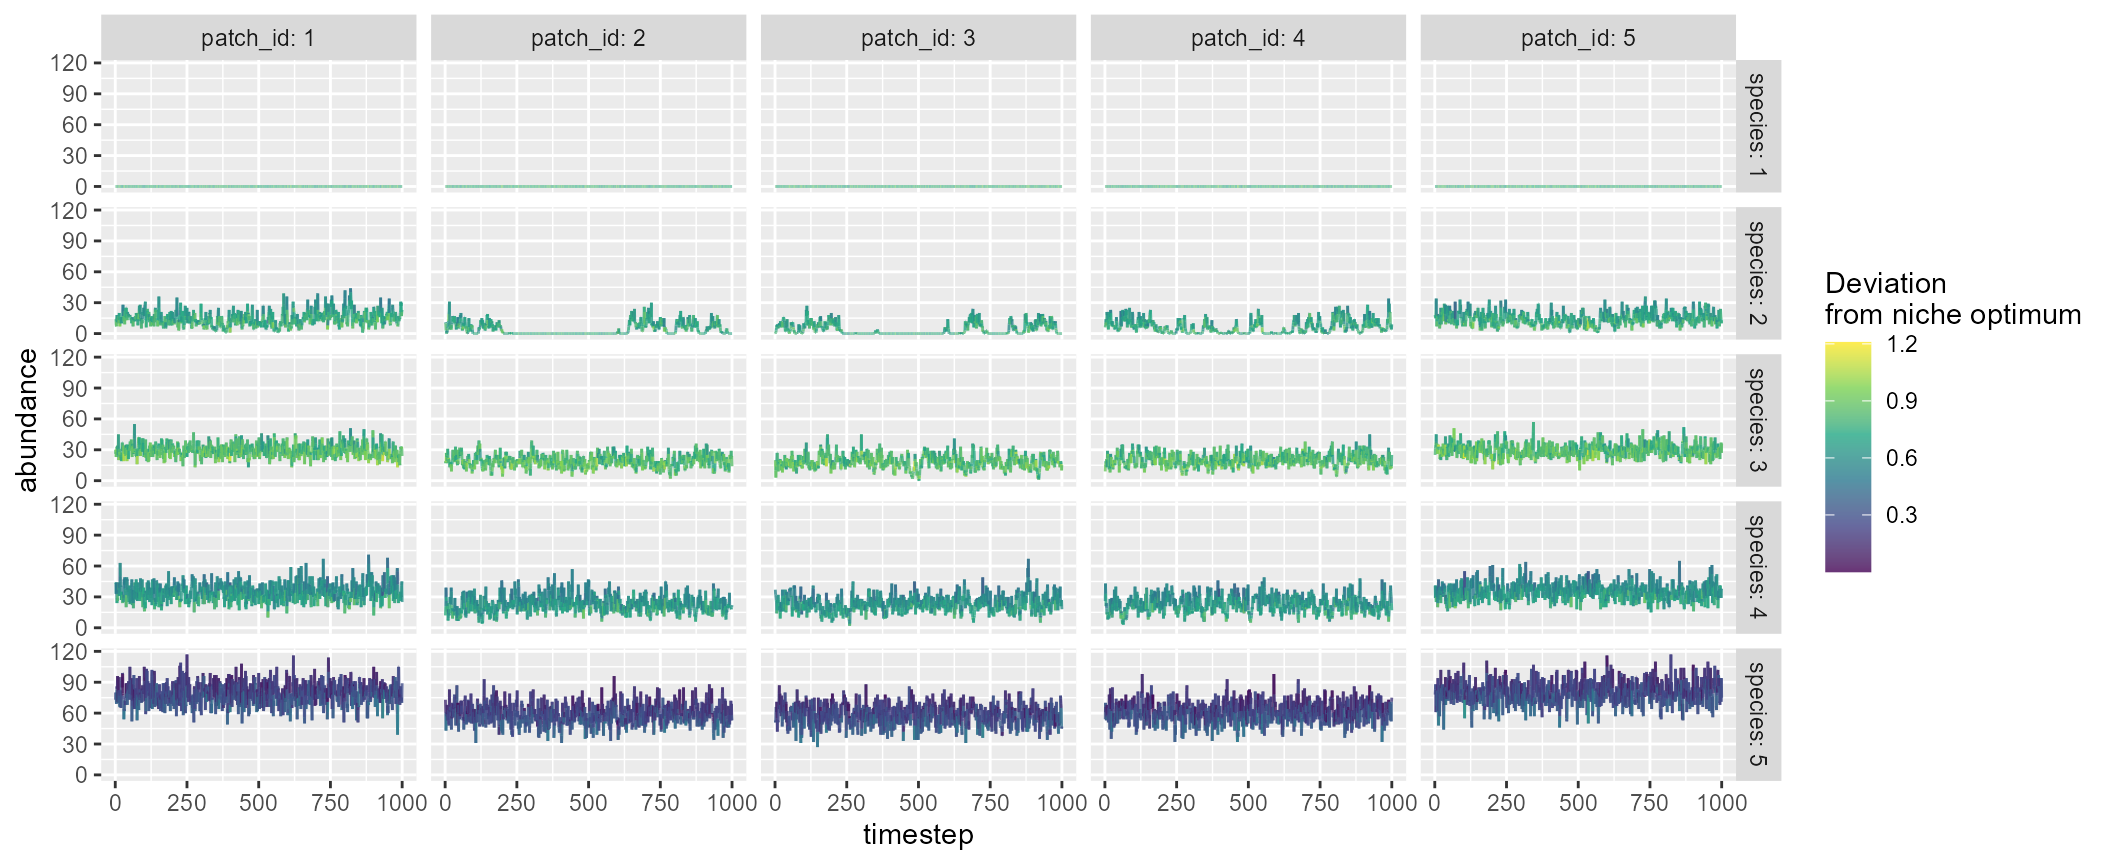
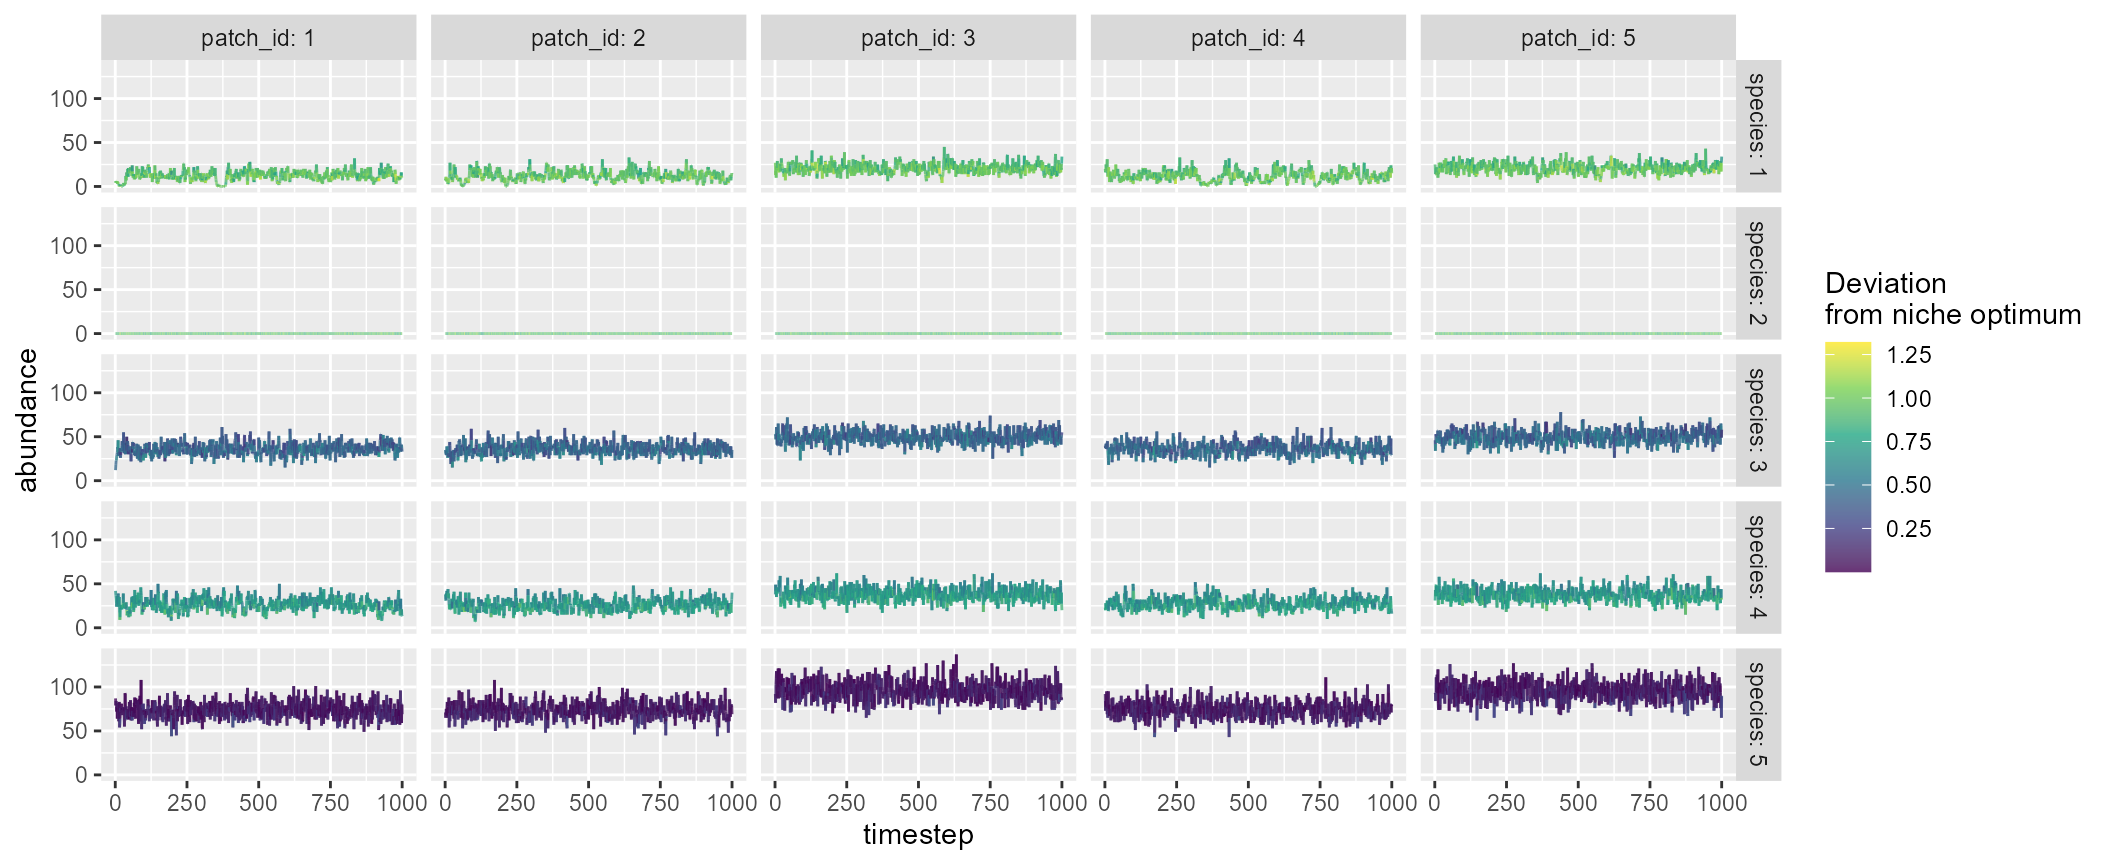
edit: pkgdown

diff --git a/docs/articles/mcsim.html b/docs/articles/mcsim.html
@@ -204,18 +204,18 @@ species that are randomly chosen:</p>
 <code class="sourceCode R"><span><span class="va">mc</span></span>
 <span><span class="co">#&gt; $df_dynamics</span></span>
 <span><span class="co">#&gt; <span style="color: #949494;"># A tibble: 25,000 × 9</span></span></span>
-<span><span class="co">#&gt;    timestep patch_id mean_env    env carrying_c…¹ species niche…²   r_xt abund…³</span></span>
-<span><span class="co">#&gt;       <span style="color: #949494; font-style: italic;">&lt;dbl&gt;</span>    <span style="color: #949494; font-style: italic;">&lt;dbl&gt;</span>    <span style="color: #949494; font-style: italic;">&lt;dbl&gt;</span>  <span style="color: #949494; font-style: italic;">&lt;dbl&gt;</span>        <span style="color: #949494; font-style: italic;">&lt;dbl&gt;</span>   <span style="color: #949494; font-style: italic;">&lt;dbl&gt;</span>   <span style="color: #949494; font-style: italic;">&lt;dbl&gt;</span>  <span style="color: #949494; font-style: italic;">&lt;dbl&gt;</span>   <span style="color: #949494; font-style: italic;">&lt;dbl&gt;</span></span></span>
-<span><span class="co">#&gt; <span style="color: #BCBCBC;"> 1</span>        1        1        0 0.034<span style="text-decoration: underline;">9</span>          100       1   0.762 0.015<span style="text-decoration: underline;">9</span>       0</span></span>
-<span><span class="co">#&gt; <span style="color: #BCBCBC;"> 2</span>        1        1        0 0.034<span style="text-decoration: underline;">9</span>          100       2   0.726 1.53        14</span></span>
-<span><span class="co">#&gt; <span style="color: #BCBCBC;"> 3</span>        1        1        0 0.034<span style="text-decoration: underline;">9</span>          100       3   0.824 1.81        26</span></span>
-<span><span class="co">#&gt; <span style="color: #BCBCBC;"> 4</span>        1        1        0 0.034<span style="text-decoration: underline;">9</span>          100       4  -<span style="color: #BB0000;">0.631</span> 1.76        44</span></span>
-<span><span class="co">#&gt; <span style="color: #BCBCBC;"> 5</span>        1        1        0 0.034<span style="text-decoration: underline;">9</span>          100       5   0.258 3.19        73</span></span>
-<span><span class="co">#&gt; <span style="color: #BCBCBC;"> 6</span>        1        2        0 0.116           100       1   0.762 0.050<span style="text-decoration: underline;">7</span>       0</span></span>
-<span><span class="co">#&gt; <span style="color: #BCBCBC;"> 7</span>        1        2        0 0.116           100       2   0.726 1.83        11</span></span>
-<span><span class="co">#&gt; <span style="color: #BCBCBC;"> 8</span>        1        2        0 0.116           100       3   0.824 1.94        19</span></span>
-<span><span class="co">#&gt; <span style="color: #BCBCBC;"> 9</span>        1        2        0 0.116           100       4  -<span style="color: #BB0000;">0.631</span> 1.49        12</span></span>
-<span><span class="co">#&gt; <span style="color: #BCBCBC;">10</span>        1        2        0 0.116           100       5   0.258 3.38        73</span></span>
+<span><span class="co">#&gt;    timestep patch_id mean_env     env carryin…¹ species niche…²     r_xt abund…³</span></span>
+<span><span class="co">#&gt;       <span style="color: #949494; font-style: italic;">&lt;dbl&gt;</span>    <span style="color: #949494; font-style: italic;">&lt;dbl&gt;</span>    <span style="color: #949494; font-style: italic;">&lt;dbl&gt;</span>   <span style="color: #949494; font-style: italic;">&lt;dbl&gt;</span>     <span style="color: #949494; font-style: italic;">&lt;dbl&gt;</span>   <span style="color: #949494; font-style: italic;">&lt;dbl&gt;</span>   <span style="color: #949494; font-style: italic;">&lt;dbl&gt;</span>    <span style="color: #949494; font-style: italic;">&lt;dbl&gt;</span>   <span style="color: #949494; font-style: italic;">&lt;dbl&gt;</span></span></span>
+<span><span class="co">#&gt; <span style="color: #BCBCBC;"> 1</span>        1        1        0 -<span style="color: #BB0000;">0.021</span><span style="color: #BB0000; text-decoration: underline;">2</span>       100       1  0.948  1.52<span style="color: #949494;">e</span>+ 0       4</span></span>
+<span><span class="co">#&gt; <span style="color: #BCBCBC;"> 2</span>        1        1        0 -<span style="color: #BB0000;">0.021</span><span style="color: #BB0000; text-decoration: underline;">2</span>       100       2 -<span style="color: #BB0000;">0.925</span>  3.32<span style="color: #949494;">e</span><span style="color: #BB0000;">-11</span>       0</span></span>
+<span><span class="co">#&gt; <span style="color: #BCBCBC;"> 3</span>        1        1        0 -<span style="color: #BB0000;">0.021</span><span style="color: #BB0000; text-decoration: underline;">2</span>       100       3  0.431  2.26<span style="color: #949494;">e</span>+ 0      12</span></span>
+<span><span class="co">#&gt; <span style="color: #BCBCBC;"> 4</span>        1        1        0 -<span style="color: #BB0000;">0.021</span><span style="color: #BB0000; text-decoration: underline;">2</span>       100       4 -<span style="color: #BB0000;">0.703</span>  2.02<span style="color: #949494;">e</span>+ 0      42</span></span>
+<span><span class="co">#&gt; <span style="color: #BCBCBC;"> 5</span>        1        1        0 -<span style="color: #BB0000;">0.021</span><span style="color: #BB0000; text-decoration: underline;">2</span>       100       5 -<span style="color: #BB0000;">0.037</span><span style="color: #BB0000; text-decoration: underline;">0</span> 3.59<span style="color: #949494;">e</span>+ 0      87</span></span>
+<span><span class="co">#&gt; <span style="color: #BCBCBC;"> 6</span>        1        2        0 -<span style="color: #BB0000;">0.061</span><span style="color: #BB0000; text-decoration: underline;">6</span>       100       1  0.948  1.45<span style="color: #949494;">e</span>+ 0       9</span></span>
+<span><span class="co">#&gt; <span style="color: #BCBCBC;"> 7</span>        1        2        0 -<span style="color: #BB0000;">0.061</span><span style="color: #BB0000; text-decoration: underline;">6</span>       100       2 -<span style="color: #BB0000;">0.925</span>  3.08<span style="color: #949494;">e</span><span style="color: #BB0000;">-10</span>       0</span></span>
+<span><span class="co">#&gt; <span style="color: #BCBCBC;"> 8</span>        1        2        0 -<span style="color: #BB0000;">0.061</span><span style="color: #BB0000; text-decoration: underline;">6</span>       100       3  0.431  2.21<span style="color: #949494;">e</span>+ 0      35</span></span>
+<span><span class="co">#&gt; <span style="color: #BCBCBC;"> 9</span>        1        2        0 -<span style="color: #BB0000;">0.061</span><span style="color: #BB0000; text-decoration: underline;">6</span>       100       4 -<span style="color: #BB0000;">0.703</span>  2.10<span style="color: #949494;">e</span>+ 0      38</span></span>
+<span><span class="co">#&gt; <span style="color: #BCBCBC;">10</span>        1        2        0 -<span style="color: #BB0000;">0.061</span><span style="color: #BB0000; text-decoration: underline;">6</span>       100       5 -<span style="color: #BB0000;">0.037</span><span style="color: #BB0000; text-decoration: underline;">0</span> 3.58<span style="color: #949494;">e</span>+ 0      71</span></span>
 <span><span class="co">#&gt; <span style="color: #949494;"># … with 24,990 more rows, and abbreviated variable names ¹carrying_capacity,</span></span></span>
 <span><span class="co">#&gt; <span style="color: #949494;">#   ²niche_optim, ³abundance</span></span></span>
 <span><span class="co">#&gt; </span></span>
@@ -223,45 +223,45 @@ species that are randomly chosen:</p>
 <span><span class="co">#&gt; <span style="color: #949494;"># A tibble: 5 × 6</span></span></span>
 <span><span class="co">#&gt;   species mean_abundance    r0 niche_optim sd_niche_width p_dispersal</span></span>
 <span><span class="co">#&gt;     <span style="color: #949494; font-style: italic;">&lt;dbl&gt;</span>          <span style="color: #949494; font-style: italic;">&lt;dbl&gt;</span> <span style="color: #949494; font-style: italic;">&lt;dbl&gt;</span>       <span style="color: #949494; font-style: italic;">&lt;dbl&gt;</span>          <span style="color: #949494; font-style: italic;">&lt;dbl&gt;</span>       <span style="color: #949494; font-style: italic;">&lt;dbl&gt;</span></span></span>
-<span><span class="co">#&gt; <span style="color: #BCBCBC;">1</span>       1           0        4       0.762          0.219         0.1</span></span>
-<span><span class="co">#&gt; <span style="color: #BCBCBC;">2</span>       2           8.60     4       0.726          0.542         0.1</span></span>
-<span><span class="co">#&gt; <span style="color: #BCBCBC;">3</span>       3          23.1      4       0.824          0.938         0.1</span></span>
-<span><span class="co">#&gt; <span style="color: #BCBCBC;">4</span>       4          27.6      4      -<span style="color: #BB0000;">0.631</span>          0.584         0.1</span></span>
-<span><span class="co">#&gt; <span style="color: #BCBCBC;">5</span>       5          67.2      4       0.258          0.508         0.1</span></span>
+<span><span class="co">#&gt; <span style="color: #BCBCBC;">1</span>       1           15.5     4      0.948           0.962         0.1</span></span>
+<span><span class="co">#&gt; <span style="color: #BCBCBC;">2</span>       2            0       4     -<span style="color: #BB0000;">0.925</span>           0.127         0.1</span></span>
+<span><span class="co">#&gt; <span style="color: #BCBCBC;">3</span>       3           41.4     4      0.431           0.962         0.1</span></span>
+<span><span class="co">#&gt; <span style="color: #BCBCBC;">4</span>       4           31.1     4     -<span style="color: #BB0000;">0.703</span>           0.822         0.1</span></span>
+<span><span class="co">#&gt; <span style="color: #BCBCBC;">5</span>       5           82.5     4     -<span style="color: #BB0000;">0.037</span><span style="color: #BB0000; text-decoration: underline;">0</span>          0.466         0.1</span></span>
 <span><span class="co">#&gt; </span></span>
 <span><span class="co">#&gt; $df_patch</span></span>
 <span><span class="co">#&gt; <span style="color: #949494;"># A tibble: 5 × 5</span></span></span>
 <span><span class="co">#&gt;   patch_id alpha_div mean_env carrying_capacity disturbance</span></span>
 <span><span class="co">#&gt;      <span style="color: #949494; font-style: italic;">&lt;dbl&gt;</span>     <span style="color: #949494; font-style: italic;">&lt;dbl&gt;</span>    <span style="color: #949494; font-style: italic;">&lt;dbl&gt;</span>             <span style="color: #949494; font-style: italic;">&lt;dbl&gt;</span>       <span style="color: #949494; font-style: italic;">&lt;dbl&gt;</span></span></span>
-<span><span class="co">#&gt; <span style="color: #BCBCBC;">1</span>        1      4           0               100           0</span></span>
-<span><span class="co">#&gt; <span style="color: #BCBCBC;">2</span>        2      3.47        0               100           0</span></span>
-<span><span class="co">#&gt; <span style="color: #BCBCBC;">3</span>        3      3.48        0               100           0</span></span>
-<span><span class="co">#&gt; <span style="color: #BCBCBC;">4</span>        4      3.74        0               100           0</span></span>
+<span><span class="co">#&gt; <span style="color: #BCBCBC;">1</span>        1      3.97        0               100           0</span></span>
+<span><span class="co">#&gt; <span style="color: #BCBCBC;">2</span>        2      3.99        0               100           0</span></span>
+<span><span class="co">#&gt; <span style="color: #BCBCBC;">3</span>        3      4           0               100           0</span></span>
+<span><span class="co">#&gt; <span style="color: #BCBCBC;">4</span>        4      3.99        0               100           0</span></span>
 <span><span class="co">#&gt; <span style="color: #BCBCBC;">5</span>        5      4           0               100           0</span></span>
 <span><span class="co">#&gt; </span></span>
 <span><span class="co">#&gt; $df_diversity</span></span>
 <span><span class="co">#&gt; <span style="color: #949494;"># A tibble: 1 × 3</span></span></span>
 <span><span class="co">#&gt;   alpha_div beta_div gamma_div</span></span>
 <span><span class="co">#&gt;       <span style="color: #949494; font-style: italic;">&lt;dbl&gt;</span>    <span style="color: #949494; font-style: italic;">&lt;dbl&gt;</span>     <span style="color: #949494; font-style: italic;">&lt;dbl&gt;</span></span></span>
-<span><span class="co">#&gt; <span style="color: #BCBCBC;">1</span>      3.74     1.07         4</span></span>
+<span><span class="co">#&gt; <span style="color: #BCBCBC;">1</span>      3.99     1.00         4</span></span>
 <span><span class="co">#&gt; </span></span>
 <span><span class="co">#&gt; $df_xy_coord</span></span>
 <span><span class="co">#&gt; <span style="color: #949494;"># A tibble: 5 × 2</span></span></span>
 <span><span class="co">#&gt;   x_coord y_coord</span></span>
 <span><span class="co">#&gt;     <span style="color: #949494; font-style: italic;">&lt;dbl&gt;</span>   <span style="color: #949494; font-style: italic;">&lt;dbl&gt;</span></span></span>
-<span><span class="co">#&gt; <span style="color: #BCBCBC;">1</span>   0.542    1.37</span></span>
-<span><span class="co">#&gt; <span style="color: #BCBCBC;">2</span>   8.32     2.32</span></span>
-<span><span class="co">#&gt; <span style="color: #BCBCBC;">3</span>   8.26     6.48</span></span>
-<span><span class="co">#&gt; <span style="color: #BCBCBC;">4</span>   2.49     5.79</span></span>
-<span><span class="co">#&gt; <span style="color: #BCBCBC;">5</span>   0.379    2.63</span></span>
+<span><span class="co">#&gt; <span style="color: #BCBCBC;">1</span>    2.87    2.16</span></span>
+<span><span class="co">#&gt; <span style="color: #BCBCBC;">2</span>    7.70    9.32</span></span>
+<span><span class="co">#&gt; <span style="color: #BCBCBC;">3</span>    4.15    6.36</span></span>
+<span><span class="co">#&gt; <span style="color: #BCBCBC;">4</span>    2.34    9.51</span></span>
+<span><span class="co">#&gt; <span style="color: #BCBCBC;">5</span>    5.13    5.49</span></span>
 <span><span class="co">#&gt; </span></span>
 <span><span class="co">#&gt; $distance_matrix</span></span>
 <span><span class="co">#&gt;          1        2        3        4        5</span></span>
-<span><span class="co">#&gt; 1 0.000000 7.834781 9.254816 4.832292 1.275235</span></span>
-<span><span class="co">#&gt; 2 7.834781 0.000000 4.152895 6.778440 7.944992</span></span>
-<span><span class="co">#&gt; 3 9.254816 4.152895 0.000000 5.807559 8.767402</span></span>
-<span><span class="co">#&gt; 4 4.832292 6.778440 5.807559 0.000000 3.798457</span></span>
-<span><span class="co">#&gt; 5 1.275235 7.944992 8.767402 3.798457 0.000000</span></span>
+<span><span class="co">#&gt; 1 0.000000 8.635875 4.391390 7.372998 4.018629</span></span>
+<span><span class="co">#&gt; 2 8.635875 0.000000 4.625174 5.366980 4.617267</span></span>
+<span><span class="co">#&gt; 3 4.391390 4.625174 0.000000 3.631693 1.316929</span></span>
+<span><span class="co">#&gt; 4 7.372998 5.366980 3.631693 0.000000 4.898780</span></span>
+<span><span class="co">#&gt; 5 4.018629 4.617267 1.316929 4.898780 0.000000</span></span>
 <span><span class="co">#&gt; </span></span>
 <span><span class="co">#&gt; $interaction_matrix</span></span>
 <span><span class="co">#&gt;      [,1] [,2] [,3] [,4] [,5]</span></span>

diff --git a/docs/articles/brnet.html b/docs/articles/brnet.html
@@ -429,21 +429,19 @@ streams):</p>
 <div class="section level2">
 <h2 id="customize-fragmentation">Customize: fragmentation<a class="anchor" aria-label="anchor" href="#customize-fragmentation"></a>
 </h2>
-<p><strong>Arguments:</strong> <code>x</code>, <code>n_source</code>,
-<code>p</code>, <code>q</code>, <code>pattern</code></p>
-<p>From v.1.3.0, mcbrnet offers <code><a href="../reference/ptsource.html">ptsource()</a></code> function to
-simulate propagation of environmental pollutants in a branching network.
-<code><a href="../reference/ptsource.html">ptsource()</a></code> can specify:</p>
+<p><strong>Arguments:</strong> <code>x</code>, <code>rate</code>,
+<code>pattern</code>, <code>p</code>, <code>n_barrier</code></p>
+<p><code><a href="../reference/frgm.html">frgm()</a></code> will impose fragmentation to a network. The
+function can specify:</p>
 <ul>
 <li><p><code>x</code> ‘brnet’ object or adjacency matrix</p></li>
 <li><p><code>rate</code> rate parameter of exponential dispersal kernel
 (i.e., species attribute). This parameter defines the result dispersal
 matrix.</p></li>
 <li><p><code>pattern</code> fragmentation pattern; either “random”
-(random location of fragmentation), “clustered” (clustered around the
-initial fragmentation that is randomly placed), “upstream” (upstream
-edges are more likely to be fragmented), or “downstream” (downstream
-edges are more likely to be fragmented).</p></li>
+(random location of fragmentation), “upstream” (upstream edges are more
+likely to be fragmented), or “downstream” (downstream edges are more
+likely to be fragmented).</p></li>
 <li><p><code>p</code> passability of fragmented edges
 (probability)</p></li>
 <li><p><code>n_barrier</code> number of barriers</p></li>
